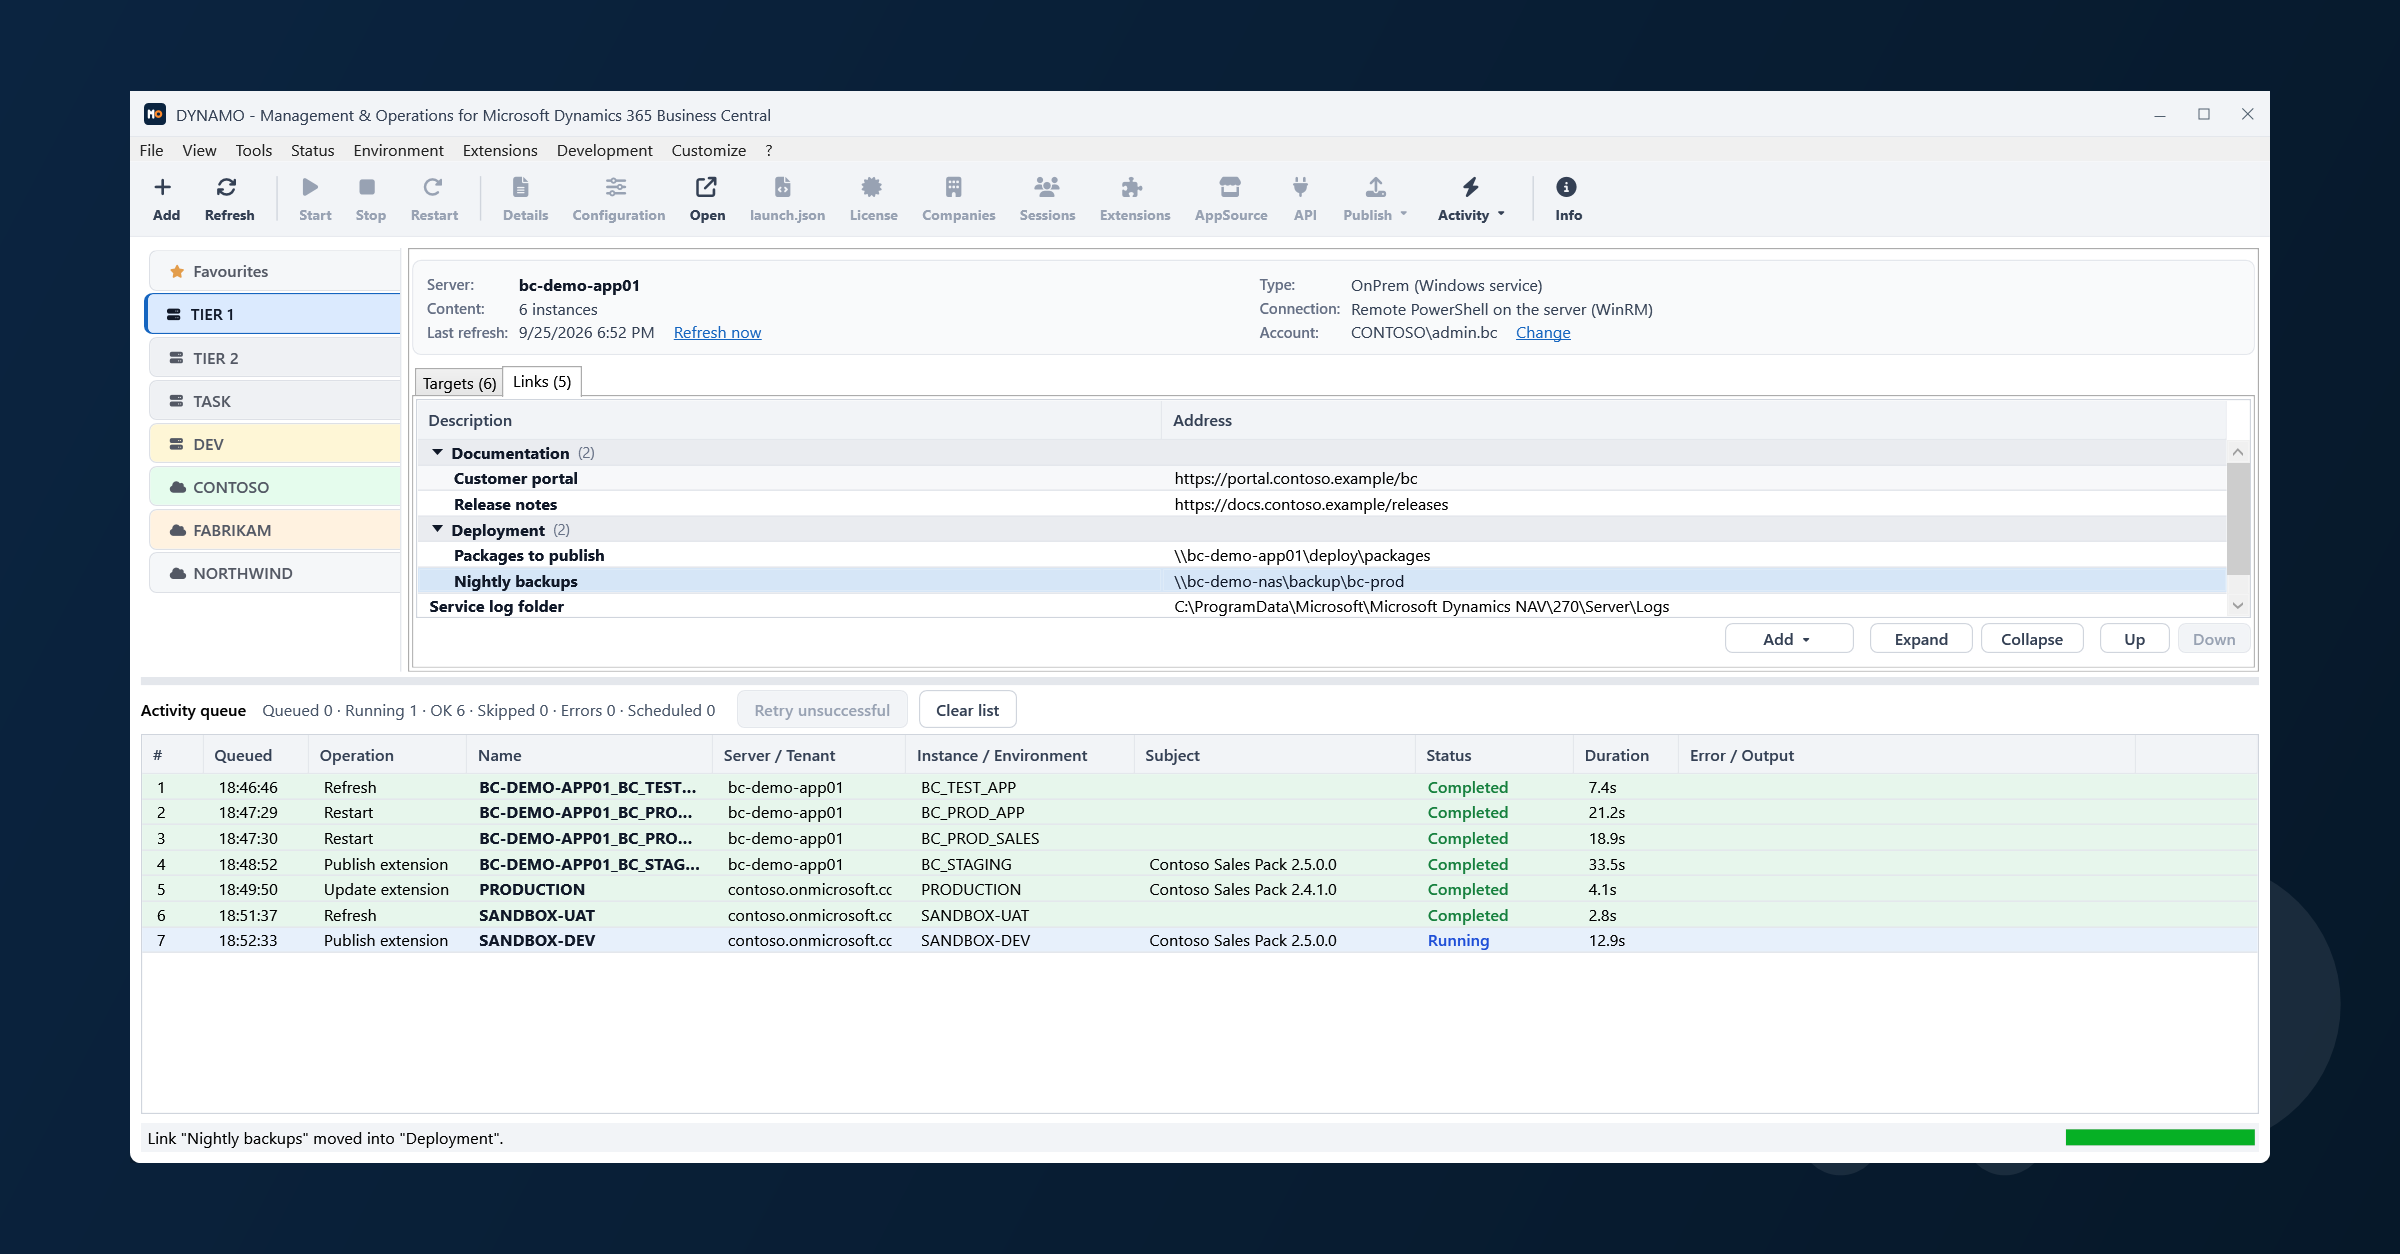
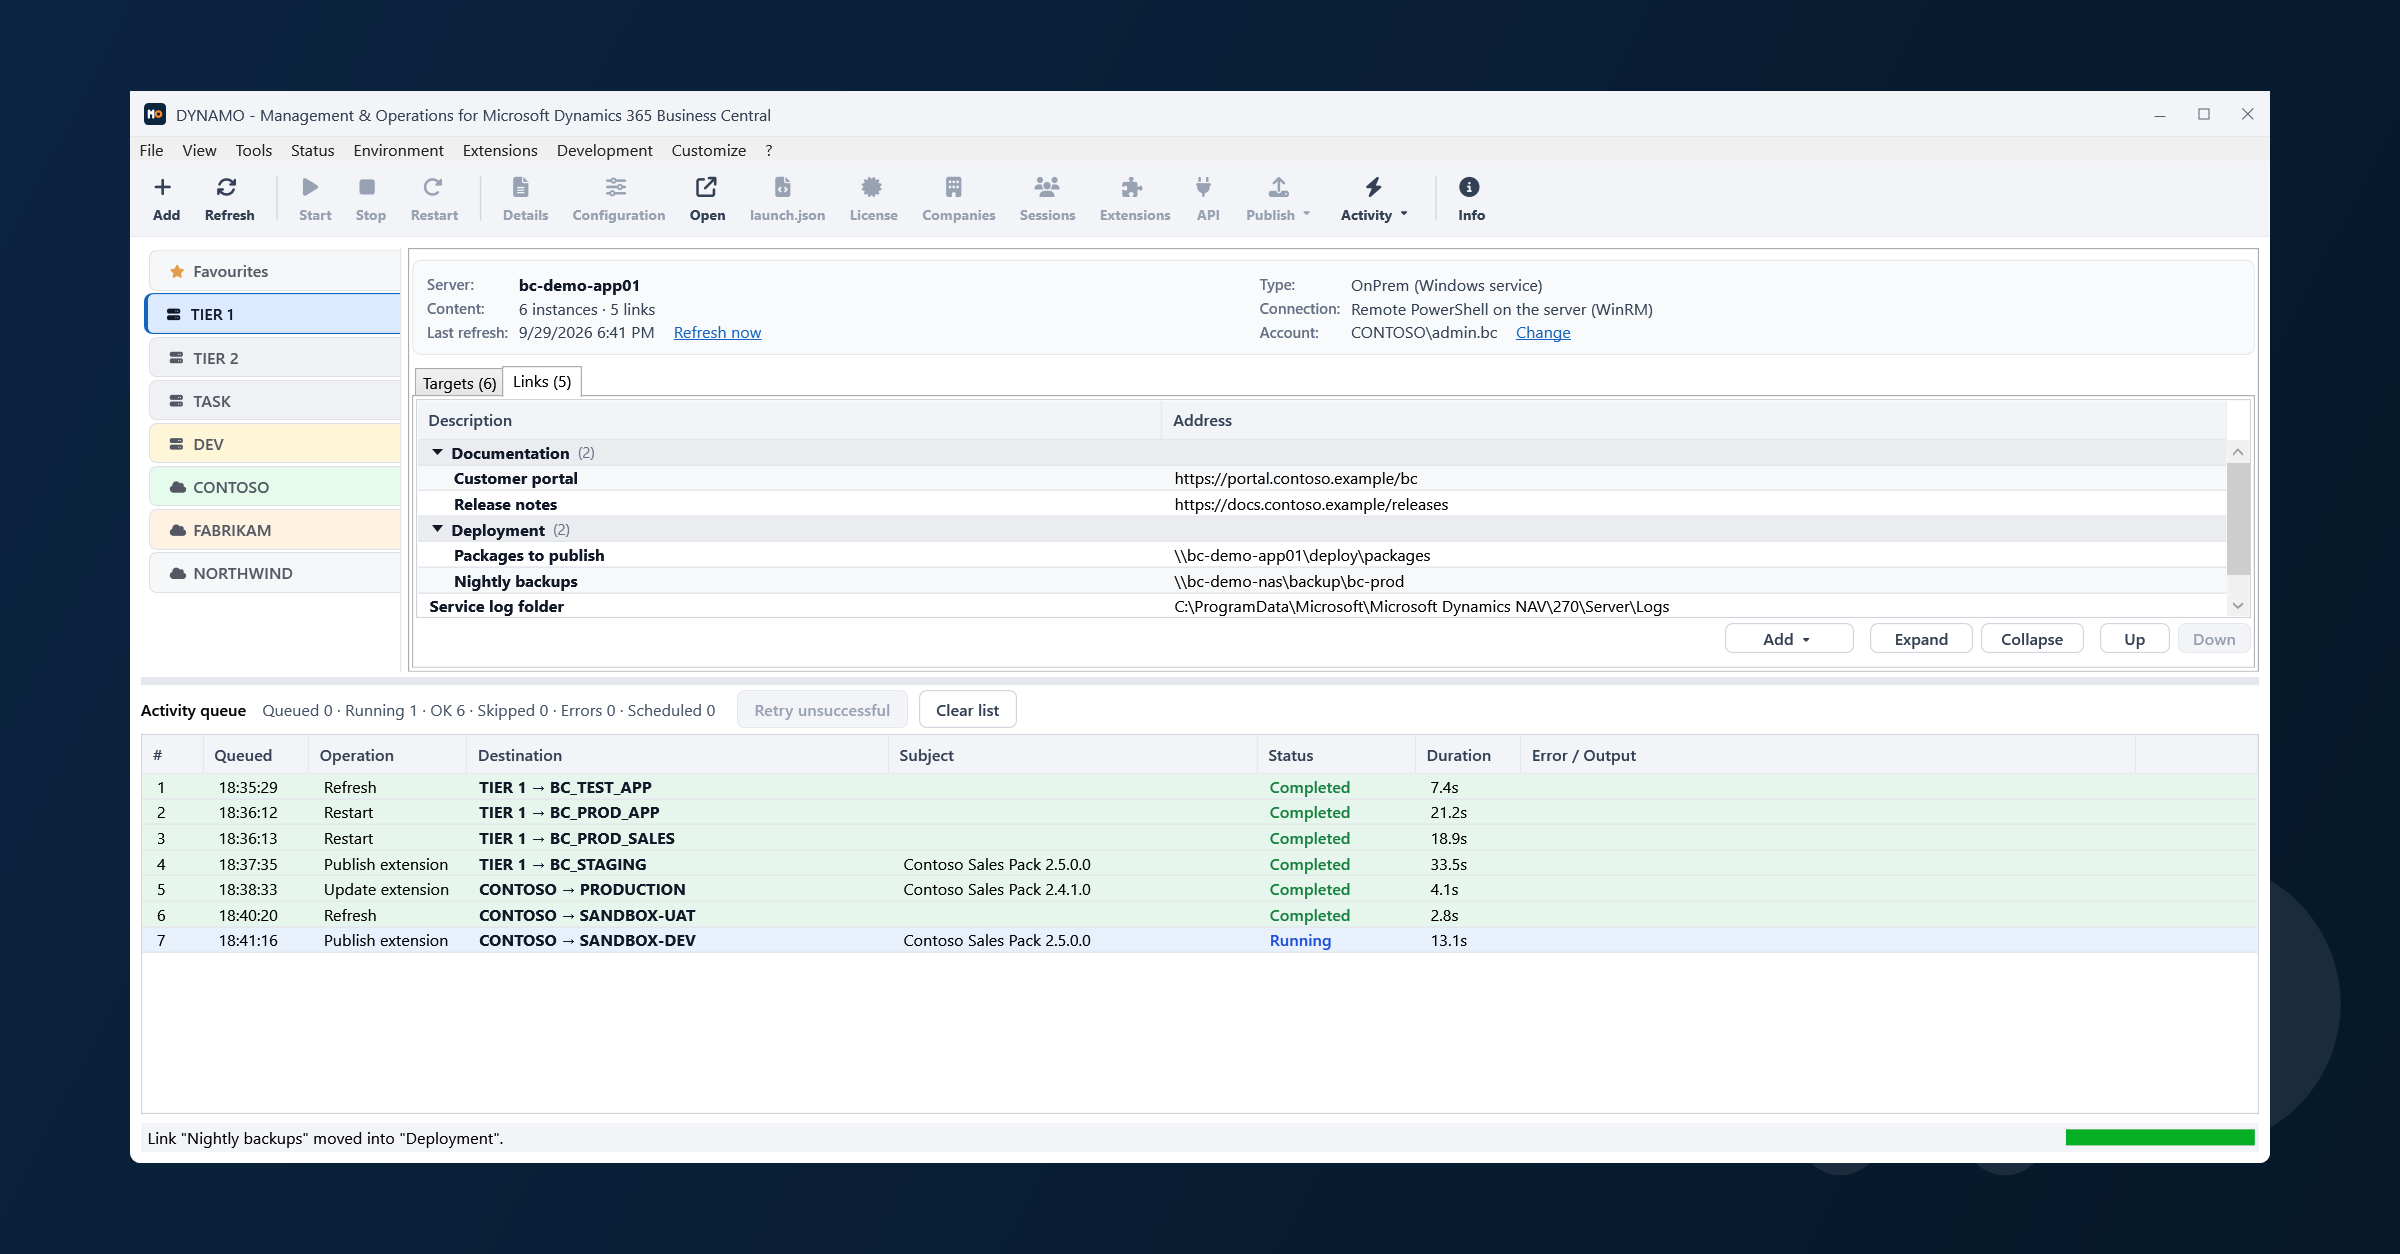
README e immagini in pari: linguetta Note, esportazione per schede, attesa della pubblicazione
Le tre immagini dimostrative rigenerate con la linguetta Note nella finestra, la nuova immagine dell'attesa con altre pubblicazioni in corso e quella delle note. Le due README spiegano le note della scheda, la scelta delle schede all'esportazione e il motivo dell'attesa con chi sta pubblicando.

diff --git a/README.it.md b/README.it.md
@@ -142,10 +142,13 @@ l'etichetta e si sceglie il tipo.
   può essere semplicemente spento.
 - **Online**: si indica il dominio del tenant (`contoso.onmicrosoft.com`) o il suo identificativo, e
   dopo l'accesso vengono elencati gli ambienti.
-- **Nessuno**: una scheda senza destinazioni, fatta di soli collegamenti.
+- **Nessuno**: una scheda senza destinazioni, fatta di soli collegamenti e note.
 
-L'elenco si salva da solo a ogni modifica. Si può **esportare e importare**, così un collega parte
-dal tuo senza riscrivere niente — le tue preferenze non viaggiano mai insieme all'elenco.
+L'elenco si salva da solo a ogni modifica. Si può **esportare e importare**, intero o una scheda alla
+volta, così un collega parte da un tuo singolo server o tenant senza riscrivere niente — le tue
+preferenze non viaggiano mai insieme all'elenco. All'esportazione si sceglie, per ogni trasferimento,
+se includere i collegamenti della scheda (spuntato di default) e le sue note (non spuntato di
+default, perché una nota può contenere qualcosa che non vorresti consegnare senza pensarci prima).
 
 ### Accedere a un tenant
 
@@ -310,8 +313,9 @@ Accanto alla linguetta delle destinazioni, ogni scheda ne ha una con i suoi **co
 descrizione e indirizzo di un sito, di una cartella locale o di una condivisione di rete. Servono a tenere accanto alla
 destinazione le cose che la riguardano — il portale del cliente, la documentazione, la cartella dei
 pacchetti. Si aggiungono, si modificano, si riordinano e si aprono con un doppio clic; viaggiano con
-l'elenco esportato, così chi lo riceve trova anche quelli. Un collegamento che punta a un programma o
-a uno script chiede conferma prima di avviarlo, nominando il file.
+l'elenco esportato, salvo esclusione al momento dell'esportazione (vedi «Primo avvio — costruire
+l'elenco» più sopra), così chi lo riceve trova anche quelli. Un collegamento che punta a un programma
+o a uno script chiede conferma prima di avviarlo, nominando il file.
 
 I collegamenti si possono raccogliere in **gruppi**, creati dallo stesso pulsante *Aggiungi*, così una
 scheda con venti voci resta leggibile. Un collegamento entra in un gruppo trascinandocelo sopra o dal
@@ -319,6 +323,17 @@ menu del tasto destro, un gruppo si apre e si chiude con il triangolino, ed elim
 elimina i collegamenti che contiene. Anche i gruppi viaggiano con l'elenco esportato.
 
 ![La linguetta dei collegamenti di un server: portale del cliente, documentazione, cartelle dei pacchetti e dei backup](assets/dynamo-demo-links.png)
+
+### Note della scheda
+
+Una terza linguetta, **Note**, tiene il testo libero sulla scheda: un orario da rispettare, un
+contatto, qualunque cosa non trovi posto in un collegamento. Una nota si aggiunge, si modifica, si
+elimina e si riordina con «Aggiungi» e Su/Giù, e si può segnare **Importante** — compare allora in
+rosso nel riquadro e, quando la scheda ha almeno una nota importante, anche in un banner sopra la
+griglia delle destinazioni, due righe al massimo con i puntini se non ci sta tutto; un clic sul
+banner porta dritto alla linguetta Note. Le note possono contenere informazioni personali o
+riservate sulla destinazione, quindi — a differenza dei collegamenti — **non viaggiano con l'elenco
+esportato se non lo si chiede**: vedi «Primo avvio — costruire l'elenco» più sopra.
 
 ### Sviluppo
 
@@ -392,6 +407,18 @@ Central; e, su un server, che il servizio dell'istanza sia in esecuzione. Se qua
 riga resta *In coda* con il motivo e i secondi che mancano al prossimo controllo, e l'operazione parte
 da sola appena la strada è libera. Intanto il lavoro sulle altre destinazioni continua a partire.
 Avvio, arresto e riavvio dei servizi non vengono mai trattenuti.
+
+![Una pubblicazione da cartella in attesa nella coda delle attività: ogni riga dice quale estensione è già in distribuzione sull'ambiente, chi l'ha avviata e i secondi che mancano al prossimo controllo](assets/dynamo-demo-wait.png)
+
+*In attesa dell'ambiente — il motivo nomina l'estensione già in distribuzione e chi l'ha avviata.*
+
+Il motivo dice **cosa** c'è di mezzo: l'estensione e la versione in distribuzione sull'ambiente, e
+**chi l'ha avviata** — l'account, quando l'Admin Center lo registra. Una distribuzione partita da VS
+Code o da dentro Business Central non ha un autore registrato, e la riga dice «non registrato» invece
+di indovinare. Una pubblicazione da cartella aspetta come un'operazione sola: ogni app mostra lo
+stesso motivo e lo stesso conto alla rovescia, e partono nell'ordine confermato appena la strada è
+libera. Ogni attesa resta anche nella cronologia locale, con quante volte è stata ricontrollata (vedi
+*Cronologia locale*).
 
 Dopo mezz'ora di attesa la riga si chiude *Saltata*, con il motivo scritto, e niente è stato toccato.
 Una distribuzione che Business Central ha lasciato appesa — non chiude mai quelle interrotte — non

diff --git a/README.md b/README.md
@@ -139,10 +139,13 @@ choose the type.
   be off.
 - **Online**: give the tenant domain (`contoso.onmicrosoft.com`) or its identifier, and the
   environments are listed after you sign in.
-- **None**: a tab with no targets, made of links only.
+- **None**: a tab with no targets, made of links and notes only.
 
-The list saves itself on every change. It can be **exported and imported**, so a colleague can start
-from yours without retyping anything — your own preferences are never carried along with it.
+The list saves itself on every change. It can be **exported and imported**, in full or one tab at a
+time, so a colleague can start from a single server or tenant of yours without retyping anything —
+your own preferences are never carried along with it. Exporting lets you choose, per transfer,
+whether to include the tab's links (on by default) and its notes (off by default, since a note may
+hold something you would not want to hand over without thinking about it first).
 
 ### Signing in to a tenant
 
@@ -299,9 +302,9 @@ that names the instance.
 Next to the targets tab, every tab has one with its **links**: the description and address of a
 website, a local folder or a network share. They keep next to the target the things that belong to it — the
 customer's portal, the documentation, the folder with the packages. They are added, edited,
-reordered and opened on a double click; they travel with the exported list, so whoever receives it
-gets them too. A link that points to a program or a script asks for confirmation before running it,
-naming the file.
+reordered and opened on a double click; they travel with the exported list unless left out at export
+time (see "First run — building the list" above), so whoever receives it gets them too. A link that
+points to a program or a script asks for confirmation before running it, naming the file.
 
 Links can be gathered into **groups**, created from the same *Add* button, so a tab with twenty
 entries stays readable. A link goes into a group by dragging it onto it or from the right-click menu,
@@ -309,6 +312,16 @@ a group opens and closes on its triangle, and deleting a group does not delete t
 Groups travel with the exported list too.
 
 ![The links tab of a server: customer portal, documentation, package and backup folders](assets/dynamo-demo-links.png)
+
+### Tab notes
+
+A third tab, **Notes**, holds free text about the tab: an appointment to respect, a contact, anything
+that does not fit a link. A note is added, edited, deleted and reordered with "Add" and Up/Down, and
+it can be marked **Important** — it then shows in red in its card and, when the tab has at least one
+important note, also in a banner above the targets grid, two lines at most with an ellipsis if there
+is more than fits; clicking the banner takes you straight to the Notes tab. Notes can hold personal
+or confidential information about the target, so — unlike links — **they do not travel with the
+exported list unless you ask**: see "First run — building the list" above.
 
 ### Development
 
@@ -380,6 +393,18 @@ colleague, from VS Code or from inside Business Central; and, on a server, that 
 is running. If something is off, the row stays *Queued* with the reason and the seconds left before
 the next check, and the operation starts on its own as soon as the way is clear. Work on the other
 targets keeps starting meanwhile. Starting, stopping and restarting services are never held back.
+
+![A folder publish waiting in the activity queue: each row says which extension is already being deployed on the environment, who started it, and the seconds left before the next check](assets/dynamo-demo-wait.png)
+
+*Waiting for the environment — the reason names the extension already being deployed and who started it.*
+
+The reason says **what** is in the way: the extension and version being deployed on the environment,
+and **who started it** — the account, when the Admin Center records it. A deployment started from VS
+Code or from inside Business Central has no author on record, and the row says "not recorded"
+rather than guess. A publish of a whole folder waits as a single operation: every app shows the same
+reason and the same countdown, and they start in the confirmed order as soon as the way is clear.
+Each wait is also kept in the local history, with how many times the check was repeated (see *Local
+history*).
 
 After half an hour of waiting the row ends *Skipped*, with the reason written, and nothing has been
 touched. A deployment that Business Central left hanging — it never closes an interrupted one — stops
